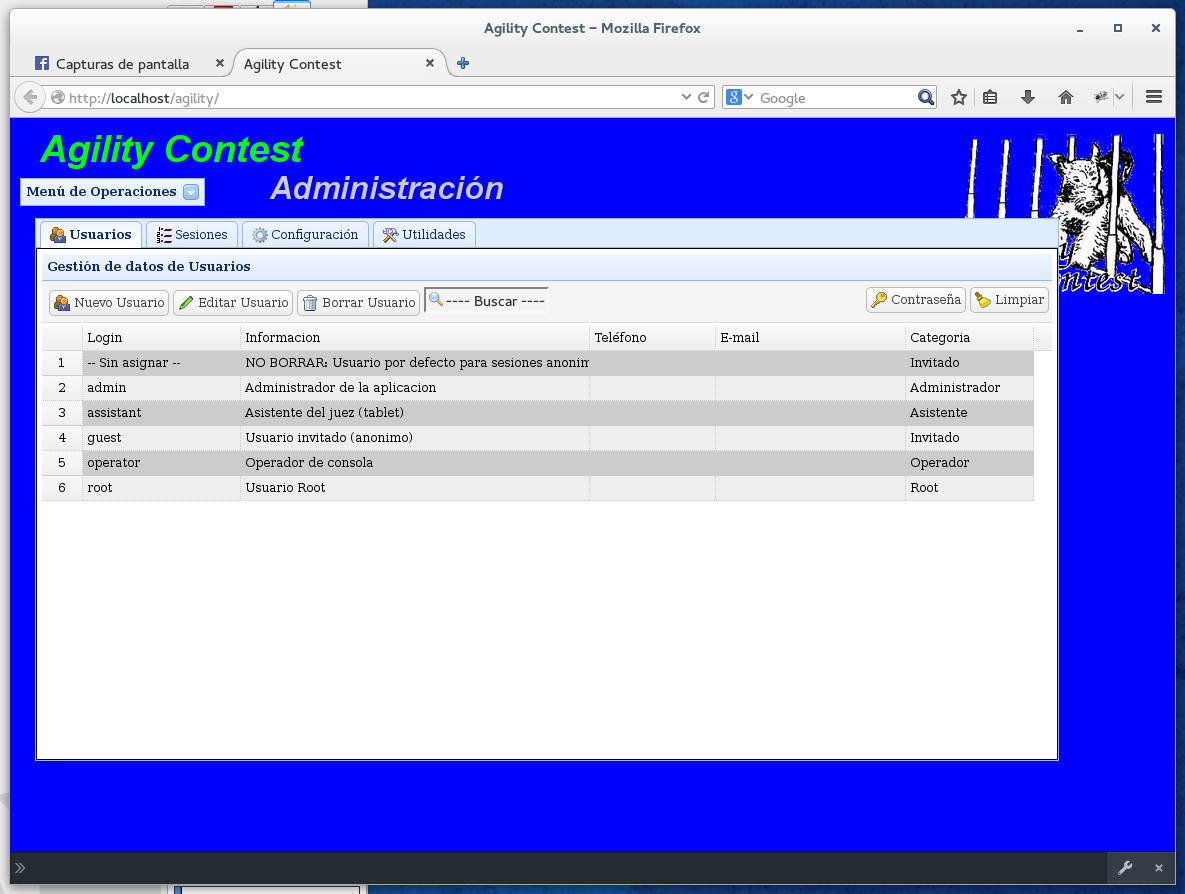
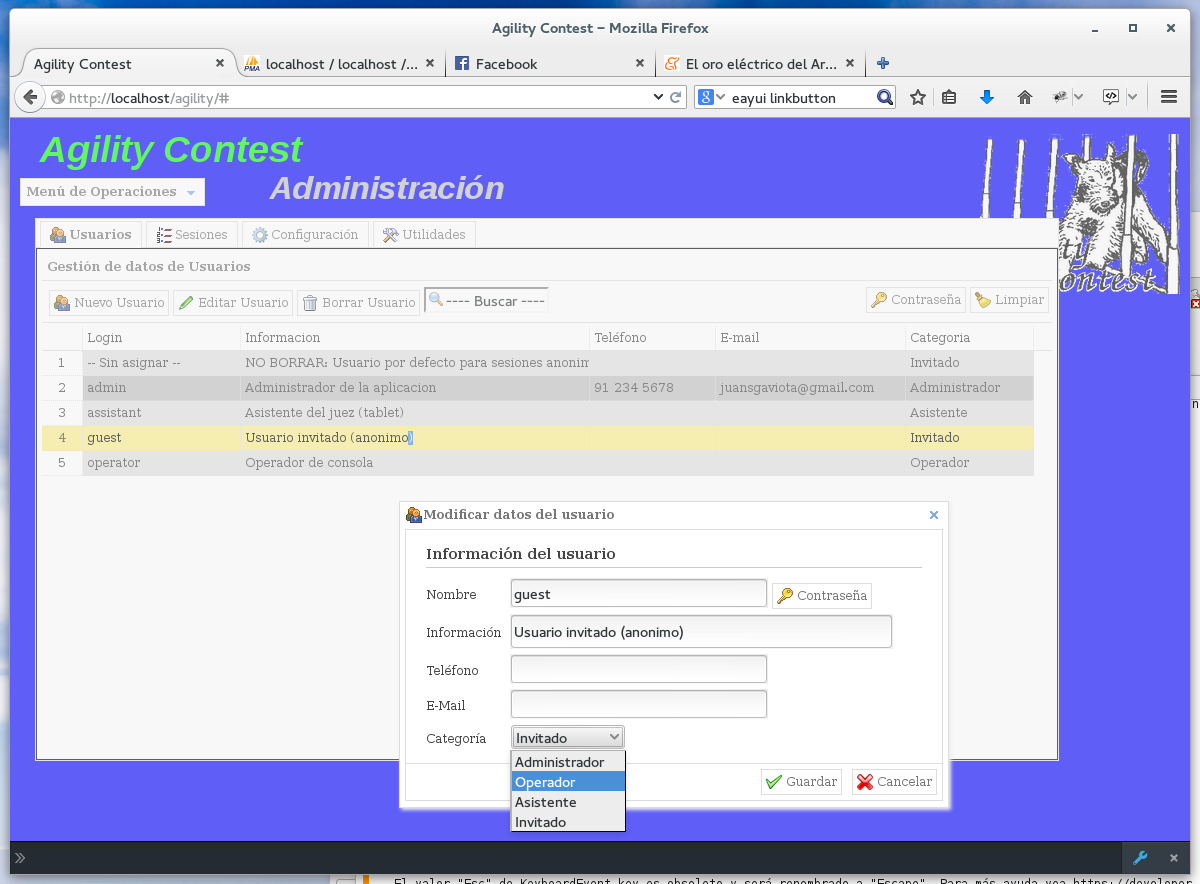
Admin::Usuarios new/edit Dialog mostly done. TODO: Password handling

diff --git a/agility/scripts/usuarios.js b/agility/scripts/usuarios.js
@@ -60,6 +60,7 @@ function editUser(dg){
     $('#usuarios-dialog').dialog('open').dialog('setTitle','Modificar datos del usuario');
     // and fill form with row data
     $('#usuarios-form').form('load',row);
+    // select proper combo data
 }
 
 /**
@@ -100,7 +101,7 @@ function deleteUser(dg){
     	$.messager.alert("Delete Error:","Esta entrada no se puede borrar","error");
     	return; // cannot delete default user
     }
-    $.messager.confirm('Confirm','Borrar datos del usuario:'+row.Nombre+'\n ¿Seguro?',function(r){
+    $.messager.confirm('Confirm','Borrar datos del usuario:'+row.Login+'\n ¿Seguro?',function(r){
       	if (!r) return;
         $.get('/agility/server/database/userFunctions.php',{Operation:'delete',ID:row.ID},function(result){
             if (result.success){

diff --git a/agility/server/database/classes/Usuarios.php b/agility/server/database/classes/Usuarios.php
@@ -134,8 +134,8 @@ class Usuarios extends DBObject {
 			$offset=($page-1)*$rows;
 			$limit="".$offset.",".$rows;
 		}
-		$where = "";
-		if ($search!=='') $where="( (Login LIKE '%$search%') OR ( Gecos LIKE '%$search%' ) OR ( Email LIKE '%$search%') ) ";
+		$where = "(Login != 'root') "; // hide root user to app
+		if ($search!=='') $where=" AND ( (Login LIKE '%$search%') OR ( Gecos LIKE '%$search%' ) OR ( Email LIKE '%$search%') ) ";
 		$result=$this->__select(
 				/* SELECT */ "*",
 				/* FROM */ "Usuarios",
